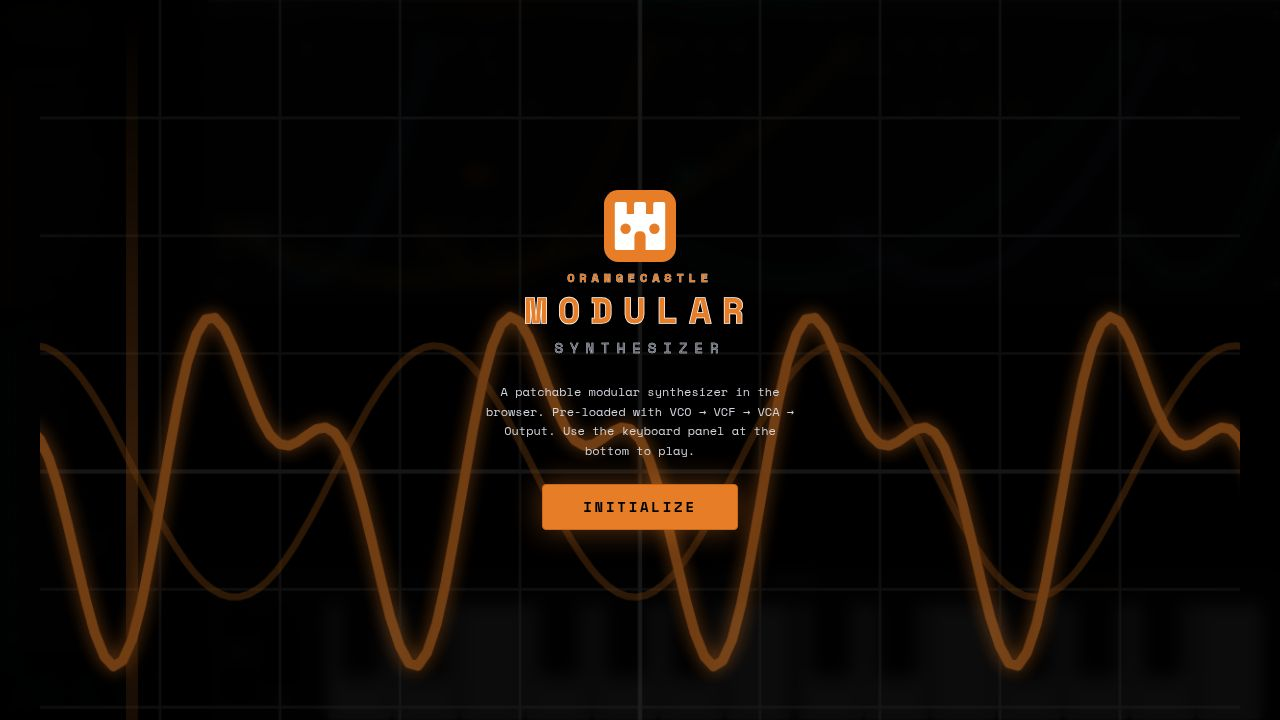
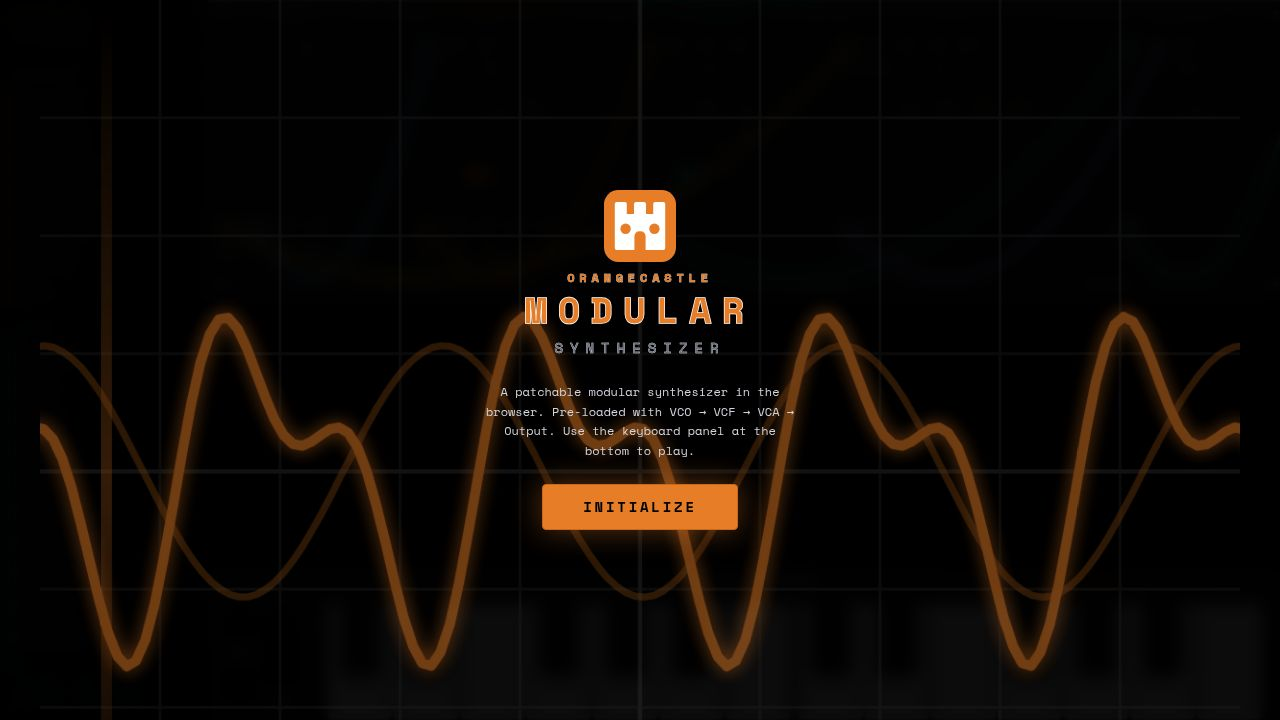
Improve timing stability by increasing the lookahead buffer
Increase the audio scheduling lookahead buffer from 120ms to 200ms in clockWorker.ts to mitigate timing shifts caused by main-thread contention during fast mouse movements.

Replit-Commit-Author: Agent
Replit-Commit-Session-Id: 432748dd-3314-4cf0-9189-7277573c353c
Replit-Commit-Checkpoint-Type: full_checkpoint
Replit-Commit-Event-Id: aa537a84-fefe-4f7b-ba02-963d34c21dae
Replit-Commit-Screenshot-Url: https://storage.googleapis.com/screenshot-production-us-central1/338c9ae4-9eaa-4246-b9eb-8b16b2420b90/432748dd-3314-4cf0-9189-7277573c353c/kNcPV2s
Replit-Helium-Checkpoint-Created: true

Changed region(s): [[0.0312, 0.3056, 0.5312, 1.0], [0.4688, 0.4278, 0.9688, 0.9472], [0.4375, 0.7333, 0.4688, 0.7944]]

diff --git a/artifacts/modular-synth/src/clockWorker.ts b/artifacts/modular-synth/src/clockWorker.ts
@@ -14,7 +14,16 @@
 // the current beat fires on schedule, then the next beat uses the new interval.
 // No clock reset, no missed or doubled beats.
 
-const LOOKAHEAD_MS = 120; // fire message this many ms before the beat
+// Fire the tick message this many ms before the beat is due. This is the slack the
+// main thread has to process the message and schedule the AudioNode before the beat
+// sounds. The audio itself is scheduled at the exact AudioContext time, so the ONLY
+// failure mode is the main thread being blocked LONGER than this window — then the
+// beat time has already passed and clamps to "now" (an audible shift). Fast mouse
+// movement / drag-driven React renders / GC pauses can stall the main thread for
+// 100ms+, so 120ms was too tight; 200ms absorbs those transients. It stays below a
+// beat at normal tempos; for fast sub-beat timers it simply schedules a couple of
+// beats ahead (still at exact audio times), which is harmless.
+const LOOKAHEAD_MS = 200; // fire message this many ms before the beat
 
 type InMsg =
   | { type: 'create';  id: number; intervalMs: number }